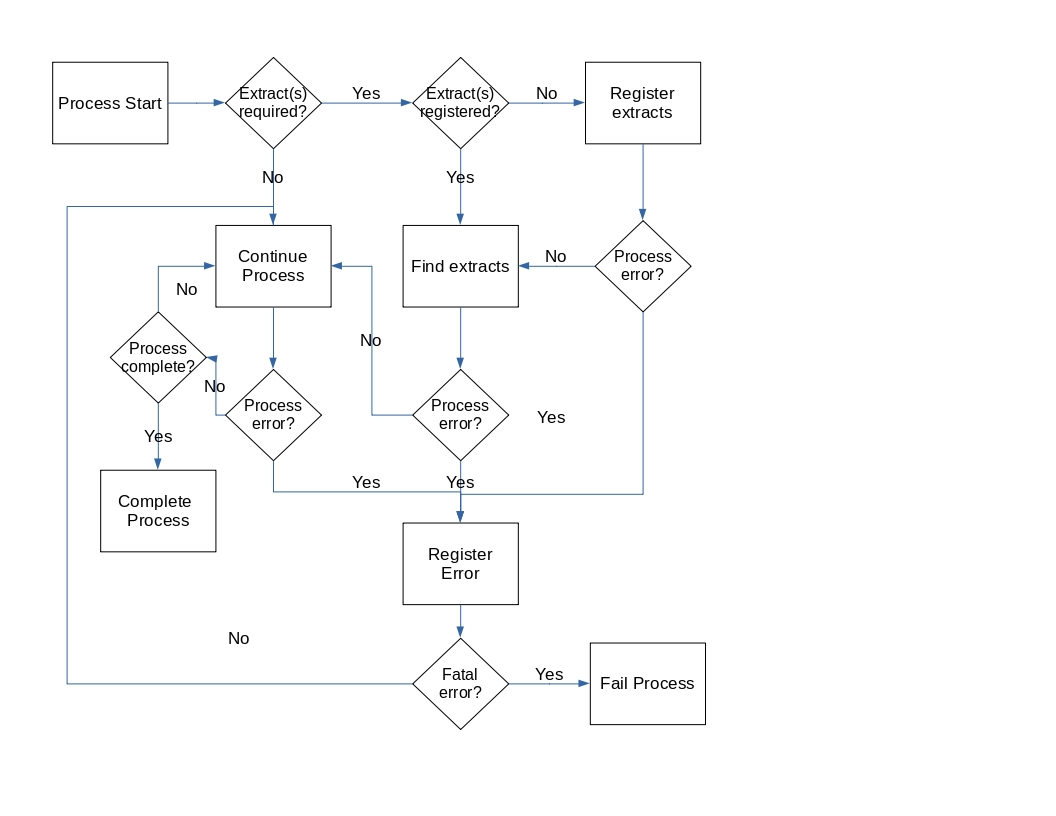
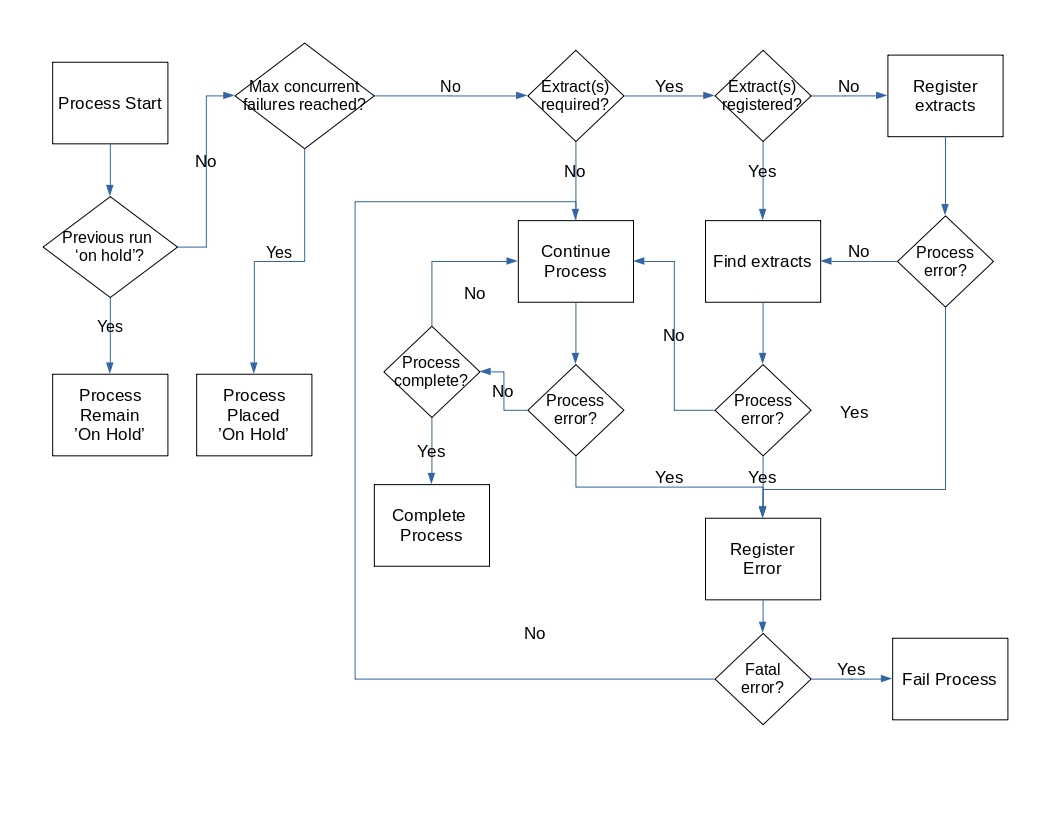
Documentation update for 0.5.0 - beta
Updated documentation to include new features and tweaks.

* data store password encryption
* dataset category types and their relationships
* audit information for extract locations
* 'on hold' process status for when processes fail too many times

diff --git a/docs/source/python/process_tracker.rst b/docs/source/python/process_tracker.rst
@@ -66,6 +66,15 @@ Those variables will be used to populate the data store backend as explained in 
      - Dictionary of lists of target source_objects with target name as key where data is read from.  Optional.
      - :ref:`source_object_lkup`, :ref:`process_target_object`
      - Yes
+   * - config_location
+     - Location where Process Tracker configuration file can be found.  If not set will use the system home directory
+       and check under .process_tracker for the process_tracker_config.ini file. Optional.
+     - :ref:`configuration`
+   * - dataset_types
+     - Single or list of dataset category types.  Will be associated with the process as well as any extracts,
+       sources/targets, and source/target objects that are associated with the process.
+     - :ref:`dataset_type_lkup`, :ref:`extract_dataset_type`, :ref:`process_dataset_type`, :ref:`source_dataset_type`
+       , :ref:`source_object_dataset_type`
 
 Once the instance has been instantiated, the rest of the options listed below become available.
 
@@ -85,6 +94,12 @@ change_run_status command.  For instance::
 
         process_run.change_run_status('my custom status')
 
+On Hold Processes
+-----------------
+
+Processes that are in the 'on hold' status are in that status because the max_concurrent_failures setting was reached.
+Currently, the only way to move a process out of 'on hold' is to manually change the last process run to 'completed' or
+some other status than 'running' or 'failed'.
 
 Triggering Errors
 *****************
@@ -146,6 +161,13 @@ value)
 
 It is recommended that the number of records be determined on a per extract file or a cumulative total before setting
 the record count.
+
+Dataset Types
+*************
+
+Dataset types are high level categories for the type(s) of data the process and ancilliary objects like extracts,
+sources/targets, source objects/target objects, etc. can be associated to.  Once the variable dataset_types is set there
+is nothing else required to associate the process and other entities associated to the process to the dataset type(s).
 
 Tracking Process Sources
 ************************

diff --git a/docs/source/model/source.rst b/docs/source/model/source.rst
@@ -3,6 +3,28 @@ Source
 
 Sources are data stores that can either be the source of data to be processed or targets for processes to write data to.
 
+.. _dataset_type_lkup:
+
+Dataset Type
+************
+
+This table tracks dataset types (i.e. Customer, Sales, Employee, etc.).
+
+.. list-table:: dataset_type_lkup
+   :widths: 25 25 50
+   :header-rows: 1
+
+   * - Column Name
+     - Column Type
+     - Column Description
+   * - dataset_type_id
+     - Auto incrementing integer sequence
+     - System key for the dataset type
+   * - dataset_type
+     - String(250)
+     - Unique name of the given dataset type
+
+
 .. _source_lkup:
 
 Source
@@ -23,6 +45,28 @@ This is the core table tracking sources/targets.
    * - source_name
      - String(250)
      - Unique name of the given source.
+
+
+.. _source_dataset_type:
+
+Source Dataset Type
+*******************
+
+This table tracks the relationship between sources and dataset types.
+
+.. list-table:: source_dataset_type
+   :widths: 25 25 50
+   :header-rows: 1
+
+   * - Column Name
+     - Column Type
+     - Column Description
+   * - source_id
+     - Integer
+     - Foreign key to the :ref:`source_lkup` table
+   * - dataset_type_id
+     - Integer
+     - Foreign key to the :ref:`dataset_type_lkup` table
 
 
 .. _source_object_lkup:
@@ -47,3 +91,25 @@ This is the core table tracking source/target objects.
    * - source_object_name
      - String(250)
      - Unique object name from given source.
+
+
+.. _source_object_dataset_type:
+
+Source Object Dataset Type
+**************************
+
+This table tracks the relationship between source/target objects and dataset types.
+
+.. list-table:: source_object_dataset_type
+   :widths: 25 25 50
+   :header-rows: 1
+
+   * - Column Name
+     - Column Type
+     - Column Description
+   * - source_object_id
+     - Integer
+     - Foreign key to the :ref:`source_object_lkup` table
+   * - dataset_type_id
+     - Integer
+     - Foreign key to the :ref:`dataset_type_lkup` table

diff --git a/docs/source/setup.rst b/docs/source/setup.rst
@@ -11,6 +11,8 @@ setting up the data store will be enabled in the code implementations of Process
 prepared scripts for four of the more popular relational databases (Postgres, MySQL, MS-SQL, Oracle) that can be found
 here <add doc link>.
 
+.. _configuration:
+
 Configuration
 *************
 
@@ -19,11 +21,12 @@ found in the user's home directory under .process_tracker once the module has be
 implementations, configuration will be handled in the best practice of the tool (i.e. the tool's configuration files,
 shared modules, etc.)
 
-process_tracker.ini
-===================
-The process_tracker.ini file contains the following settings:
+process_tracker_config.ini
+==========================
 
-.. list-table:: process_tracker.ini
+The process_tracker_config.ini file contains the following settings:
+
+.. list-table:: process_tracker_config.ini
    :widths: 25 25
    :header-rows: 1
 
@@ -31,6 +34,8 @@ The process_tracker.ini file contains the following settings:
      - Variable Description
    * - log_level
      - Logging level of ProcessTracker
+   * - max_concurrent_failures
+     - Maximum number of concurrent failures allowed before process is put in status 'on hold'
    * - data_store_type
      - The database type.  Valid options:  postgresql, mysql, mssql, oracle, snowflake
    * - data_store_username
@@ -45,3 +50,10 @@ The process_tracker.ini file contains the following settings:
      - The name of the database/schema storing ProcessTracking data in the data store
 
 The data_store_* variables are used to build a connection string to the data store.
+
+Encrypting Data Store Passwords
+===============================
+
+Data store passwords can be encrypted so that they are not stored in plain text. The method used is NOT cryptographically
+secure.  This just makes it a bit harder for someone to access your data store password.  Please refer to the
+:ref:`password_encryption` section.

diff --git a/docs/source/workflow.rst b/docs/source/workflow.rst
@@ -40,6 +40,21 @@ These entities are described in more detail in the :doc:`Model <./model/model>` 
 
 Once the process run is registered, it must be determined with extract file(s) are required for further processing.
 
+Previous run 'on hold'?
+=======================
+
+If the process has failed enough times, then the process should no longer try to process regardless of how many times
+it has triggered.  This status is termed 'on hold'.  If the previous run of a process has hit the max_concurrent_failures
+setting value, then the run will be placed on hold.  The process will remain in that status until manually switched over
+to 'completed' or another status that is not 'running' or 'failed'.
+
+Max concurrent failures reached?
+================================
+
+If the previous run is not in the 'on hold' status, then a number of previous process runs matching the
+max_concurrent_failures will be checked.  If those runs are all failures (matching the max_concurrent_failures value)
+the current run will be placed 'on hold' until the failure is resolved.  Otherwise the process run will proceed as normal.
+
 Extract(s) required?
 ====================
 

diff --git a/docs/source/model/extract.rst b/docs/source/model/extract.rst
@@ -4,6 +4,28 @@ Extract Tracker
 These are the tables associated with extract tracking/handling.  Links to other subjects will be provided as noted.
 
 
+.. _extract_dataset_type:
+
+Extract Dataset Type
+********************
+
+This table tracks the relationship between extract files and dataset types.
+
+.. list-table:: extract_dataset_type
+   :widths: 25 25 50
+   :header-rows: 1
+
+   * - Column Name
+     - Column Type
+     - Column Description
+   * - extract_id
+     - Integer
+     - Foreign key to the :ref:`extract_tracking` table.
+   * - dataset_type_id
+     - Integer
+     - Foreign key to the :ref:`dataset_type_lkup` table.
+
+
 .. _extract_dependency:
 
 Extract Dependency
@@ -176,6 +198,9 @@ This table tracks extract file locations.
    * - location_type_id
      - Integer
      - The type of location for given filepath.  Foreign key to :ref:`location_type_lkup`.
+   * - location_file_count
+     - The number of files currently in the given location.
+     - Integer
 
 .. _location_type_lkup:
 

diff --git a/docs/source/python/cli.rst b/docs/source/python/cli.rst
@@ -126,3 +126,21 @@ To delete a process dependency, use the delete command as noted above, but with 
 Shorthand can also be used:::
 
         processtracker delete -t "process dependency" -p "My Parent Process Name" -c "My Child Process Name"
+
+.. _password_encryption:
+
+Password Encryption
+*******************
+
+Data store passwords can be encrypted using the CLI tool.  This encryption is NOT cryptographically secure!  This method
+is just so plain text passwords are not stored in the configuration file.::
+
+        processtracker encrypt --password "MySecretPassword"
+
+This will return back the encrypted cypher:::
+
+        Encrypted password is now:  Encrypted wqfCvsKKwpzCrsOYw4rCvsKBwrHCrMOawr_DlcOZwro=
+        When storing in your config file, please be sure to include 'Encrypted ' as well as the hash.
+
+As the message states, take the password, starting with the 'Encrypted ' and paste it into your config file.  Again, this
+is not cryptographically secure.  This only helps obscure your password.

diff --git a/docs/source/model/process.rst b/docs/source/model/process.rst
@@ -37,6 +37,28 @@ This table tracks the unique processes being tracked by ProcessTracker.
      - The date/time of the last failed run of this process.
 
 
+.. _process_dataset_type:
+
+Process Dataset Type
+********************
+
+This table tracks the relationship between process and dataset types.
+
+.. list-table:: process_dataset_type
+   :widths: 25 25 50
+   :header-rows: 1
+
+   * - Column Name
+     - Column Type
+     - Column Description
+   * - process_id
+     - Integer
+     - Foreign key to the :ref:`process` table.
+   * - dataset_type_id
+     - Integer
+     - Foreign key to the :ref:`dataset_type_lkup` table.
+
+
 .. _process_dependency:
 
 Process Dependency
